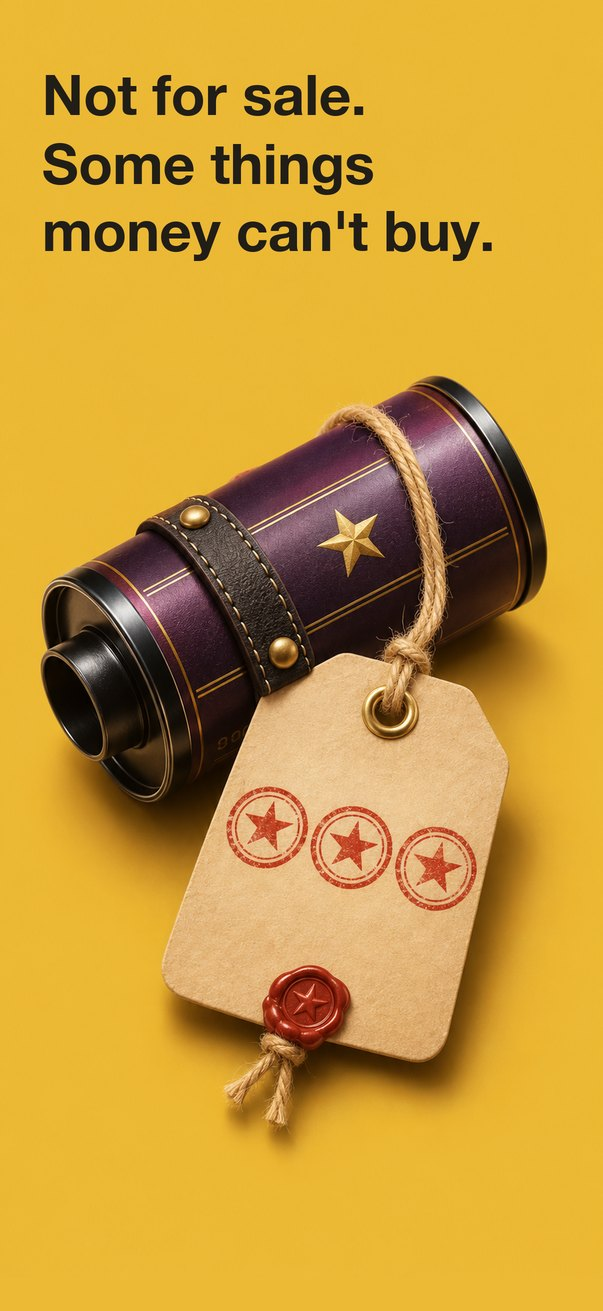
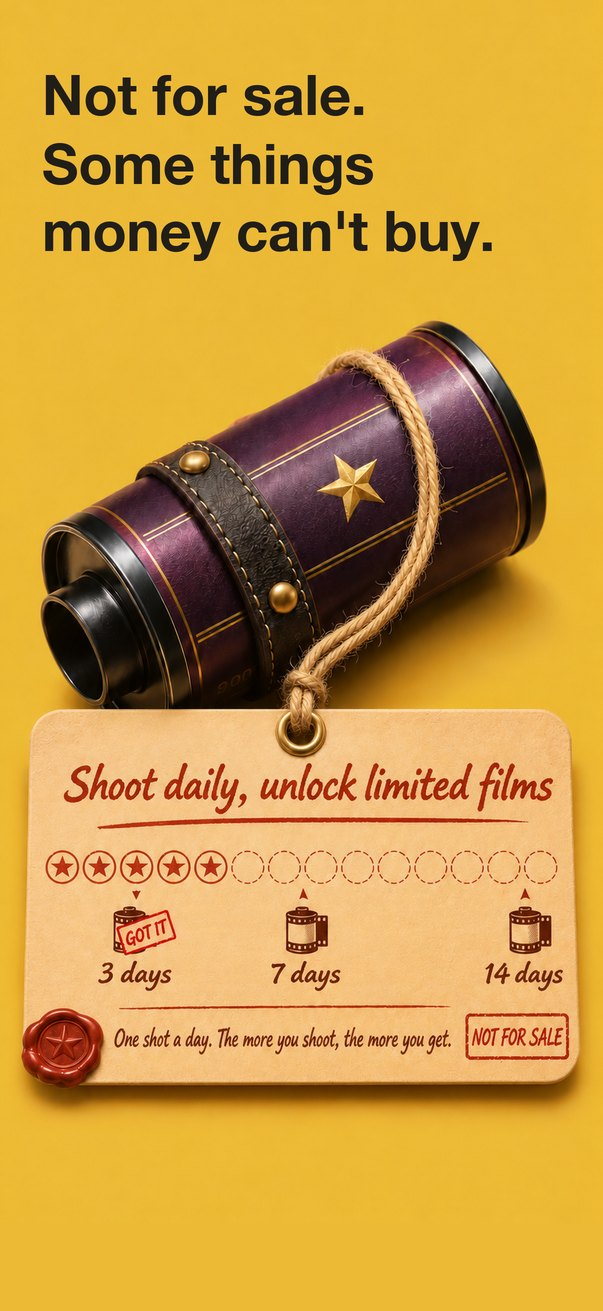
Screenshots: try page on a red car split by the compare line (Grit Neg); not-for-sale page with a kraft check-in card that says how to earn it (zh and en drawings)

diff --git a/design/appstore/duo/index.html b/design/appstore/duo/index.html
@@ -30,7 +30,7 @@ body.en .zh,body:not(.en) .en{display:none}
 <h2>整套 8 页 · 按你的意见改</h2>
 <p class="sub">4 非卖品：换成神秘盒子——黑盒子带相机同款黄红条，盒盖掀开，绒布里躺着一卷紫金色的胶卷，火漆封条撕开一半（GPT 画）。6 所见即所得：相机和成片同一个角度，成片压在相机下面像刚吐出来，不再一正一歪，也不是死板地上下摆。7 先试试：回到 App 里真正的滑动对比界面，截成一个满页的竖窗，白线和拖动圆钮在中间；换了一张前后差别大的照片（原图是手机那种平平的发青，Natura 1600 后浓郁暖调）。8 一键直达：去掉桌面图标，只留 Dock（相册、设置、信息、音乐，没有相机）。点按钮切中文 / English。</p>
 <div class="seg" role="group" aria-label="语言"><button id="bz" aria-pressed="true">中文</button><button id="be" aria-pressed="false">English</button></div>
-<div class="row" style="grid-template-columns:repeat(auto-fill,minmax(130px,1fr))"><figure><img class="zh" src="s9_1_zh.jpg" alt="不是 iPhone，是胶片相机"><img class="en" src="s9_1_en.jpg" alt="不是 iPhone，是胶片相机"><figcaption>1 · 不是 iPhone，是胶片相机</figcaption></figure><figure><img class="zh" src="s9_2_zh.jpg" alt="换一卷，换一种生活"><img class="en" src="s9_2_en.jpg" alt="换一卷，换一种生活"><figcaption>2 · 换一卷，换一种生活</figcaption></figure><figure><div style="aspect-ratio:603/1311;border:2px dashed #b9a;border-radius:6px;display:grid;place-items:center;text-align:center;padding:8px;font-size:13px">社区页<br>等你选定导航后做</div><figcaption>3 · 社区</figcaption></figure><figure><img class="zh" src="s9_4_zh.jpg" alt="非卖品（神秘盒子）"><img class="en" src="s9_4_en.jpg" alt="非卖品（神秘盒子）"><figcaption>4 · 非卖品（锁起来的限定卷）</figcaption></figure><figure><img class="zh" src="s9_5_zh.jpg" alt="军火库"><img class="en" src="s9_5_en.jpg" alt="军火库"><figcaption>5 · 军火库</figcaption></figure><figure><img class="zh" src="s9_6_zh.jpg" alt="所见即所得（新）"><img class="en" src="s9_6_en.jpg" alt="所见即所得（新）"><figcaption>6 · 所见即所得（新）</figcaption></figure><figure><img class="zh" src="s9_7_zh.jpg" alt="买之前，先试试（新）"><img class="en" src="s9_7_en.jpg" alt="买之前，先试试（新）"><figcaption>7 · 买之前，先试试（新）</figcaption></figure><figure><img class="zh" src="s9_8_zh.jpg" alt="两种方式，一键直达（新）"><img class="en" src="s9_8_en.jpg" alt="两种方式，一键直达（新）"><figcaption>8 · 两种方式，一键直达（去掉红箭头）</figcaption></figure></div>
+<div class="row" style="grid-template-columns:repeat(auto-fill,minmax(130px,1fr))"><figure><img class="zh" src="s9_1_zh.jpg" alt="不是 iPhone，是胶片相机"><img class="en" src="s9_1_en.jpg" alt="不是 iPhone，是胶片相机"><figcaption>1 · 不是 iPhone，是胶片相机</figcaption></figure><figure><img class="zh" src="s9_2_zh.jpg" alt="换一卷，换一种生活"><img class="en" src="s9_2_en.jpg" alt="换一卷，换一种生活"><figcaption>2 · 换一卷，换一种生活</figcaption></figure><figure><div style="aspect-ratio:603/1311;border:2px dashed #b9a;border-radius:6px;display:grid;place-items:center;text-align:center;padding:8px;font-size:13px">社区页<br>等你选定导航后做</div><figcaption>3 · 社区</figcaption></figure><figure><img class="zh" src="s9_4_zh.jpg" alt="非卖品（神秘盒子）"><img class="en" src="s9_4_en.jpg" alt="非卖品（神秘盒子）"><figcaption>4 · 非卖品（加打卡卡片）</figcaption></figure><figure><img class="zh" src="s9_5_zh.jpg" alt="军火库"><img class="en" src="s9_5_en.jpg" alt="军火库"><figcaption>5 · 军火库</figcaption></figure><figure><img class="zh" src="s9_6_zh.jpg" alt="所见即所得（新）"><img class="en" src="s9_6_en.jpg" alt="所见即所得（新）"><figcaption>6 · 所见即所得（新）</figcaption></figure><figure><img class="zh" src="s9_7_zh.jpg" alt="买之前，先试试（新）"><img class="en" src="s9_7_en.jpg" alt="买之前，先试试（新）"><figcaption>7 · 买之前，先试试（红车被白线切开）</figcaption></figure><figure><img class="zh" src="s9_8_zh.jpg" alt="两种方式，一键直达（新）"><img class="en" src="s9_8_en.jpg" alt="两种方式，一键直达（新）"><figcaption>8 · 两种方式，一键直达（去掉红箭头）</figcaption></figure></div>
 <h2>内屏导航 · 实际用起来的样子</h2>
 <p class="sub">每个方案两张：左边停在“胶卷”页，右边切到“社区”页。导航固定在左页最下面不动，切页时只有上面的内容换：胶卷页左边是胶卷，社区页左边是题目、分类和打卡；右页都是内容。右边的“小皮子”书签已经去掉。都是 GPT 画的。</p>
 <h2>A · 黄铜拨档铭牌：拨杆从“胶卷”拨到了最右边“社区”，选中的字变红</h2>
@@ -43,7 +43,7 @@ body.en .zh,body:not(.en) .en{display:none}
 <h2>整套 8 页（第 6、7、8 页重做）</h2>
 <p class="sub">6 所见即所得：不再截相机，整台相机放正，下面一张同样大小的成片，就是屏幕里那张。7 先试试：换了内容——一卷胶卷拉出来，前三格已经拍了照片，后面全是空格，意思是“先免费拍三张”（GPT 画）。8 一键直达：一张图里同时有主屏幕上的小组件和机身侧面圈红的相机键，不再是两块拼在一起（GPT 画）。点按钮切中文 / English。</p>
 
-<div class="row" style="grid-template-columns:repeat(auto-fill,minmax(130px,1fr))"><figure><img class="zh" src="s8_1_zh.jpg" alt="不是 iPhone，是胶片相机"><img class="en" src="s8_1_en.jpg" alt="不是 iPhone，是胶片相机"><figcaption>1 · 不是 iPhone，是胶片相机</figcaption></figure><figure><img class="zh" src="s8_2_zh.jpg" alt="换一卷，换一种生活"><img class="en" src="s8_2_en.jpg" alt="换一卷，换一种生活"><figcaption>2 · 换一卷，换一种生活</figcaption></figure><figure><div style="aspect-ratio:603/1311;border:2px dashed #b9a;border-radius:6px;display:grid;place-items:center;text-align:center;padding:8px;font-size:13px">社区页<br>等你选定导航后<br>用新的社区界面做</div><figcaption>3 · 社区</figcaption></figure><figure><img class="zh" src="s8_4_zh.jpg" alt="非卖品"><img class="en" src="s8_4_en.jpg" alt="非卖品"><figcaption>4 · 非卖品</figcaption></figure><figure><img class="zh" src="s8_5_zh.jpg" alt="军火库（斜切两半）"><img class="en" src="s8_5_en.jpg" alt="军火库（斜切两半）"><figcaption>5 · 军火库（斜切两半）</figcaption></figure><figure><img class="zh" src="s8_6_zh.jpg" alt="所见即所得（新）"><img class="en" src="s8_6_en.jpg" alt="所见即所得（新）"><figcaption>6 · 所见即所得（新）</figcaption></figure><figure><img class="zh" src="s8_7_zh.jpg" alt="买之前，先试试（新）"><img class="en" src="s8_7_en.jpg" alt="买之前，先试试（新）"><figcaption>7 · 买之前，先试试（新）</figcaption></figure><figure><img class="zh" src="s8_8_zh.jpg" alt="两种方式，一键直达（新）"><img class="en" src="s8_8_en.jpg" alt="两种方式，一键直达（新）"><figcaption>8 · 两种方式，一键直达（去掉红箭头）</figcaption></figure></div>
+<div class="row" style="grid-template-columns:repeat(auto-fill,minmax(130px,1fr))"><figure><img class="zh" src="s8_1_zh.jpg" alt="不是 iPhone，是胶片相机"><img class="en" src="s8_1_en.jpg" alt="不是 iPhone，是胶片相机"><figcaption>1 · 不是 iPhone，是胶片相机</figcaption></figure><figure><img class="zh" src="s8_2_zh.jpg" alt="换一卷，换一种生活"><img class="en" src="s8_2_en.jpg" alt="换一卷，换一种生活"><figcaption>2 · 换一卷，换一种生活</figcaption></figure><figure><div style="aspect-ratio:603/1311;border:2px dashed #b9a;border-radius:6px;display:grid;place-items:center;text-align:center;padding:8px;font-size:13px">社区页<br>等你选定导航后<br>用新的社区界面做</div><figcaption>3 · 社区</figcaption></figure><figure><img class="zh" src="s8_4_zh.jpg" alt="非卖品"><img class="en" src="s8_4_en.jpg" alt="非卖品"><figcaption>4 · 非卖品</figcaption></figure><figure><img class="zh" src="s8_5_zh.jpg" alt="军火库（斜切两半）"><img class="en" src="s8_5_en.jpg" alt="军火库（斜切两半）"><figcaption>5 · 军火库（斜切两半）</figcaption></figure><figure><img class="zh" src="s8_6_zh.jpg" alt="所见即所得（新）"><img class="en" src="s8_6_en.jpg" alt="所见即所得（新）"><figcaption>6 · 所见即所得（新）</figcaption></figure><figure><img class="zh" src="s8_7_zh.jpg" alt="买之前，先试试（新）"><img class="en" src="s8_7_en.jpg" alt="买之前，先试试（新）"><figcaption>7 · 买之前，先试试（红车被白线切开）</figcaption></figure><figure><img class="zh" src="s8_8_zh.jpg" alt="两种方式，一键直达（新）"><img class="en" src="s8_8_en.jpg" alt="两种方式，一键直达（新）"><figcaption>8 · 两种方式，一键直达（去掉红箭头）</figcaption></figure></div>
 <h2>内屏导航重做 · 三个方案</h2>
 <p class="sub">右边那列“小皮子”书签全部去掉，右页留给内容（以后放社区）。导航挪到左页最下面，胶卷区收短，上面照样能上下滑。三种都是真的能固定在包里的东西（GPT 画）：</p>
 <h2>A · 黄铜拨档铭牌（我推荐）</h2>

diff --git a/tools/appstore_v6.py b/tools/appstore_v6.py
@@ -658,7 +658,7 @@ def z6_compare():
     cw = round(ph * win_w / win_h)
     crop = full.crop((line_x - cw // 2, photo[1], line_x + cw // 2, photo[3])).resize((win_w, win_h), Image.LANCZOS)
     pills = []
-    for b in (((412, 172, 704, 320) if zh else (408, 168, 844, 324)), (2556, 168, 3396, 324)):
+    for b in (((412, 172, 704, 320) if zh else (408, 168, 844, 324)), (2724, 168, 3396, 324)):   # pill widths follow the film name (Grit Neg)
         p = full.crop(tuple(round(v * k) for v in b)).convert("RGBA")
         m = Image.new("L", p.size, 0)
         ImageDraw.Draw(m).rounded_rectangle((0, 0, p.width - 1, p.height - 1), p.height // 2, fill=255)
@@ -673,7 +673,9 @@ def z6_compare():
 def z4_locked():
     """Not for sale, in the app's own drawing: a limited roll strapped shut,
     its kraft tag stamped three days running and sealed (GPT art)."""
-    im = gpt_on_yellow("design/appstore/v6/locked_roll.png", y=-60)
+    # The card on it says how (user: the headline alone is too vague): a zh
+    # and an en drawing of the same picture.
+    im = gpt_on_yellow(f"design/appstore/v6/locked_roll_{'zh' if zh else 'en'}.png", y=-170)
     headline(im, 43)
     return im
 

diff --git a/project/QUEUE.md b/project/QUEUE.md
@@ -96,6 +96,23 @@
 
 - B18（新，11/22）普通 iPhone 竖着拿时，相机包整块横过来、只占屏幕约 2/3 高。要不要改成“竖持时一次只显示一页、左右滑翻页”？改动大，等你定；不改也能用。
 
+- ✔ 11/22 截图标题我先试填（用户：先填一些试一下，回头再改）；英文截图换成英文界面，第 3 张按设备区分。样稿 https://claude.ai/artifact/S9S7mVAyCj3Dm9potBzjSQ 。等用户改标题，定了再上传 App Store Connect。
+- ✔ 11/22 用户同意并已完成：商店文案五语、年龄分级 4+、免费、除中国大陆外全部地区上架（API，未提交审核）。沙盒测试员等用户给邮箱（发给 GPT）。
+
+- 自动推进暂停（11/23 00:0x UTC，额度）：Claude 这一段已多用约 10 个点到上限。说“继续”我以当时用量为新起点接着做（下一项：1.14 最终界面走查）。
+- ✔ 沙盒测试员：用户已建好并在手机“开发者”设置里登录。单卷直接购买入口已加（d139f3a），手机已装 Release 版，等用户在沙盒里实测购买。
+
+- ✔ 11/23 用户说明连续打卡规则：连续 3 天算“人”不算“主题”——同时可有多个主题，每天在任一主题打卡都算（不同主题、或同一主题每天新内容），连续 3 天就送卷。现在只有一个主题，行为一致；加第二个主题时连续天数改成跨主题算（蓝图 3.7）。
+
+- 自动推进停（11/23 01:4x）：剩下的都要等你——TestFlight 上传（看板 testflight）、截图标题、长图现在做不做（看板 long-image）、B18、真机验收页。
+
+- ✔ 11/23 看板回答：TestFlight 同意上传（进行中，版本号改 1.0 对齐 App Store Connect）；长图“这种形态不做了”（3.3 取消）；B18 竖持相机包保持不变；沙盒购买成了。
+- B11-copy 用户意见（11/23）：①截图太丑，先研究市面上好的做法（含几张之间的连续关系），和 GPT 讨论后重做；②“不用账号”删掉——以后要做社区，跟路线冲突（商店描述里的 No account 也要一起改，等用户点头再写 App Store Connect）；③问横屏 Duo 图在哪显示 → App Store Connect 有单独的“iPhone Duo”截图位，传了产品页会显示“为 iPhone Duo 设计”标记；2027 年 4 月起用 iOS 27.1 SDK 的 App 必须传。另：普通 iPhone 必传的是“灵动岛中尺寸”1206×2622。
+
+- ✔ 11/23 社区方向（用户）：大陆暂时搁置，先做大陆以外；三种主题节奏（每日小题、每周大题、节日限定）；12 月先上 v1，社区在之后版本分三步：①主题服务器下发、不需账号 ②Apple 登录发帖看帖点赞 + 举报拉黑过滤 ③运营。只能发 Koco 拍的照片。方案文档 project/community-plan.md 起草中。
+
+- ✔ 已做（11/23）：所有购买入口在网络/验证失败时都不提示（FilmStore.buy 吞掉错误返回 false）。应区分成功、取消、待批准、失败，失败时给可本地化提示。
+
 ## C. 搁置 / 卡住
 （暂无）
 
@@ -123,3 +140,8 @@
 - brand-names-3：按方案改名 → 已做（bf2e2bc）。
 - launch-date：12 月内上线 → App Store 推荐提名至少提前 3 周，提名文案尽快写好交给用户提交。
 - first-theme：用户出题——“我总是忍不住看我睡着的狗狗 太治愈！”（睡着的宠物 / 治愈）。
+
+## 2026-11-23 user: screenshot set nearly done
+- Pages done except: community (page 3, design the community screen next — v2 concept in design/community/community_v2.png), page 8 Camera Control cue (red arrow rejected; glow alone too faint — pick a cue in the app's style).
+- After these pages: design the community screen properly.
+- Idea from the user to decide: a daily free film — one paid roll free for everyone for a day, unlimited shots, gone the next day.
